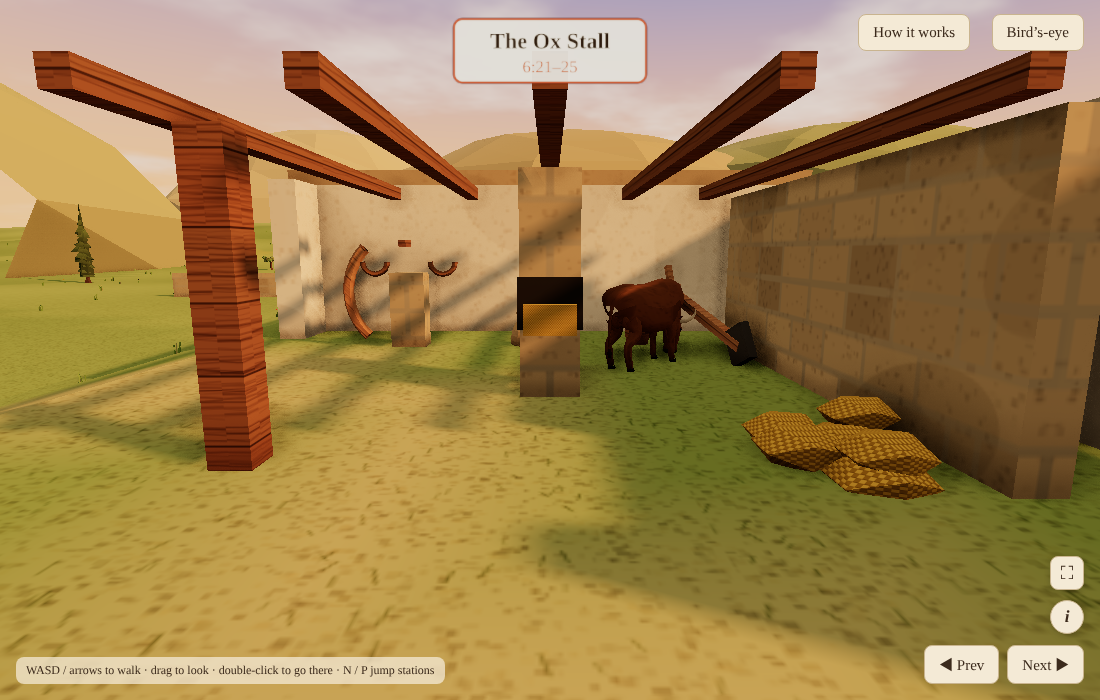
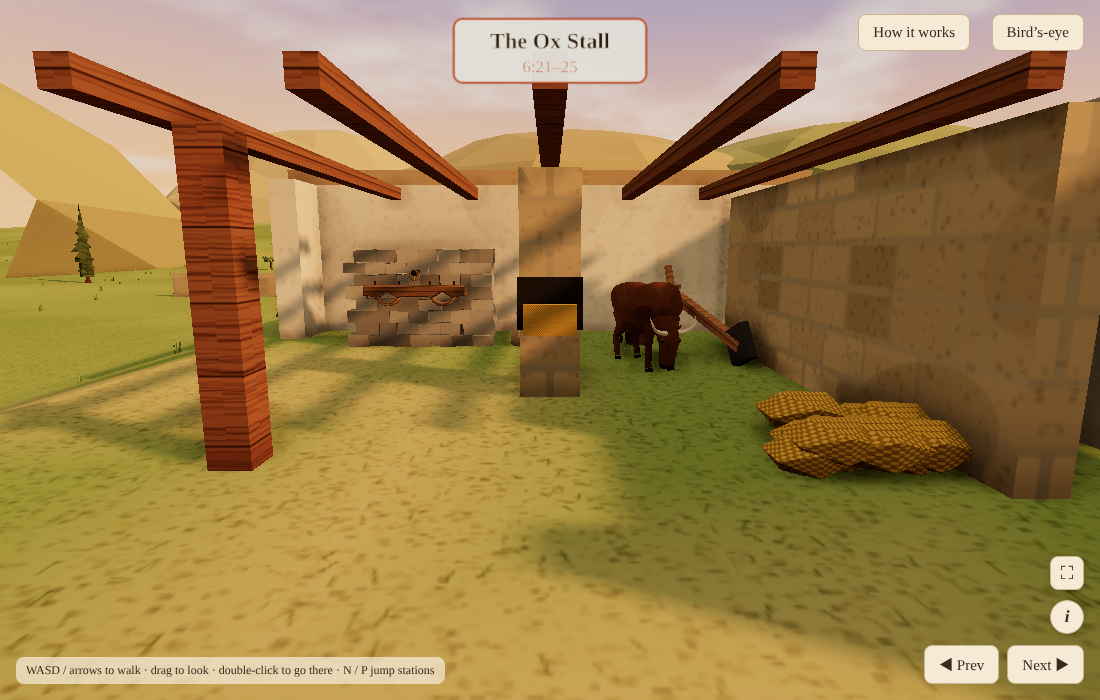
som-ltm: new library models for the charcoal clearing and bee wall; yoke rebuilt; storeroom made one room; ox faces viewer; granary steps replaced by boundary stone; The Cistern. Library: tipped cylinders centred
Claude-Session: https://claude.ai/code/session_011GTaBjBmrRYMxR8CbFEKPF

diff --git a/ltm-engine/objects/som.js b/ltm-engine/objects/som.js
@@ -16,7 +16,8 @@ const mLeather = MM('somLeather', '#7a5232', TEX.cloth), mLeatherDk = MM('somLea
   mRope = MM('somRopeM', '#c8ae7c', TEX.wicker), mSmoke = MM('somSmokeM', '#ece8e0', null, { transparent: true, opacity: .45, depthWrite: false }), mDark = MM('somDarkM', '#241c16'), mGrass = MM('somGrassM', '#7a8a3e');
 const G = () => new THREE.Group();
 const bx = (g, w, h, d, m, x, y, z, ry = 0, rx = 0, rz = 0) => { const o = box(w, h, d, m, x, y, z, g); o.rotation.set(rx, ry, rz); return o; };
-const cy = (g, rt, rb, h, s, m, x, y, z, rx = 0, ry = 0, rz = 0) => { const o = cyl(rt, rb, h, s, m, x, y, z, g); o.rotation.set(rx, ry, rz); return o; };
+// an upright cylinder stands on y; a tipped one (rx or rz set) is centred on y, so lying logs, pipes and hafts sit where they are put
+const cy = (g, rt, rb, h, s, m, x, y, z, rx = 0, ry = 0, rz = 0) => { const o = cyl(rt, rb, h, s, m, x, y, z, g); o.rotation.set(rx, ry, rz); if (rx || rz) o.position.y = y; return o; };
 const lathe = (g, pts, m, x, y, z, seg = 14) => add(new THREE.LatheGeometry(pts.map(([a, b]) => new THREE.Vector2(a, b)), seg), m, x, y, z, g);
 // an irregular flat stone: a low polygon prism with jittered corners
 function slab(g, r, h, m, x, y, z, sides = 6, ry = 0) { const sh = new THREE.Shape(); for (let i = 0; i < sides; i++) { const a = i / sides * 6.283, rr = r * R(.75, 1.15); i ? sh.lineTo(Math.cos(a) * rr, Math.sin(a) * rr) : sh.moveTo(Math.cos(a) * rr, Math.sin(a) * rr); }
@@ -90,13 +91,14 @@ def('som-mudbrick-wall', 'Low mud-brick wall of the yard', g => {
 
 // ---- the Ox Stall (6:21–25) ----
 def('som-yoke-on-peg', 'Yoke for two oxen, hung on its peg', g => {
-  dryWall(g, -1.2, -.3, 1.2, -.3, 1.3, .5);   // a low field-stone wall behind
-  cy(g, .05, .05, .45, 8, mWoodDk, 0, 1.15, -.1, Math.PI / 2);   // one stout peg driven into the wall
-  const beam = new THREE.Group(); beam.position.set(0, 1.18, .12); g.add(beam);
-  bx(beam, 1.9, .13, .13, mWood, 0, 0, 0); for (const s of [-1, 1]) bx(beam, .2, .17, .15, mWood, s * .95, -.02, 0);   // a thick beam with flared ends
-  for (const s of [-.55, .55]) { const bow = add(new THREE.TorusGeometry(.2, .03, 6, 16, Math.PI), mWoodLt, s, -.02, 0, beam); bow.rotation.z = Math.PI;   // the U-shaped bow under each neck
-    for (const t of [-1, 1]) cy(beam, .022, .022, .2, 5, mWoodDk, s + t * .2, .05, 0); }   // bow ends pinned through the beam
-  return 1.45; });
+  dryWall(g, -1.3, -.4, 1.3, -.4, 2.0, .45);   // the stall's coursed stone wall behind
+  cy(g, .06, .06, .55, 8, mWoodDk, 0, 1.55, -.1, Math.PI / 2);   // one stout peg sticking out of the wall face
+  add(new THREE.TorusGeometry(.09, .022, 5, 10), mRope, 0, 1.5, .12, g);   // the cord loop over the peg
+  cy(g, .015, .015, .22, 4, mRope, 0, 1.38, .14);
+  const sh = new THREE.Shape(); sh.moveTo(-1, -.06); [[-.85, -.08], [-.75, -.1], [-.55, .02], [-.35, -.1], [-.2, -.08], [.2, -.08], [.35, -.1], [.55, .02], [.75, -.1], [.85, -.08], [1, -.06], [1, .1], [-1, .1]].forEach(([a, b]) => sh.lineTo(a, b));
+  add(new THREE.ExtrudeGeometry(sh, { depth: .16, bevelEnabled: true, bevelThickness: .02, bevelSize: .02, bevelSegments: 1 }), MM('somYokeWood', '#8e6a42', TEX.wood), 0, 1.18, .02, g);   // the carved beam hanging against the wall face, two neck hollows
+  for (const s of [-.55, .55]) { const bow = add(new THREE.TorusGeometry(.24, .04, 6, 16, Math.PI), mWoodLt, s, 1.16, .1, g); bow.rotation.z = Math.PI; for (const t of [-1, 1]) cy(g, .022, .022, .26, 5, mWoodDk, s + t * .24, 1.12, .1); }   // a U-bow hanging under each hollow
+  return 2.0; });
 def('som-plough', 'Wooden plough (ard) with an iron share', g => {
   const sole = bx(g, .14, .12, 1.0, mWood, 0, .05, 0, 0, .15);   // the sole dragging along the ground
   const sh = new THREE.ConeGeometry(.09, .4, 4); sh.rotateX(Math.PI / 2); add(sh, mIron, 0, .02, .66, g).scale.x = 1.4;   // a big iron share on its point
@@ -189,5 +191,55 @@ def('som-resting-stone', 'Resting stone at the fork of the road', g => {
   const worn = add(new THREE.CircleGeometry(1.7, 10), MM('somTrack', '#b8a07a'), 0, .01, 0, g); worn.rotation.x = -Math.PI / 2;   // the worn ground where travellers stop
   for (let i = 0; i < 4; i++) boulder(g, R(.1, .18), mRockDk, R(-1.3, 1.3), 0, R(-1.2, 1.2), .6);
   return .65; });
+
+
+// ---- the Charcoal Burners' Clearing (5:26–30), rebuilt 2026-11-18 ----
+def('som-charcoal-mound', 'Charcoal burner\'s mound, smoking', g => {
+  const earthD = MM('somEarthDk', '#6a5640', TEX.plaster), turfG = MM('somTurfG', '#5d6a34'), soil = MM('somSoilClod', '#7a6244'), soot = MM('somSoot', '#1e1a16');
+  const geo = new THREE.SphereGeometry(1.55, 22, 12, 0, 6.3, 0, 1.57); const p = geo.attributes.position; for (let i = 0; i < p.count; i++) { const x = p.getX(i), y = p.getY(i), z = p.getZ(i), n = 1 + .07 * Math.sin(x * 5.1 + z * 3.3) + .05 * Math.sin(z * 6.7 - y * 4); p.setXYZ(i, x * n, y * .78 * n, z * n); } geo.computeVertexNormals();
+  add(geo, earthD, 0, 0, 0, g);   // a lumpy dome of earth over the stacked wood
+  for (let i = 0; i < 40; i++) { const a = R(0, 6.3), t = R(.1, 1.25), r = 1.55 * Math.cos(t), y = 1.2 * Math.sin(t); const c = add(new THREE.DodecahedronGeometry(R(.1, .2), 0), i % 3 ? soil : turfG, Math.cos(a) * r, y * .98, Math.sin(a) * r, g); c.scale.y = .5; c.lookAt(0, -3, 0); }   // clods and turves pressed over it
+  for (let k = 0; k < 8; k++) { const a = k / 8 * 6.28 + .2; add(new THREE.CircleGeometry(.08, 6), soot, Math.cos(a) * 1.56, .25, Math.sin(a) * 1.56, g).lookAt(Math.cos(a) * 9, .25, Math.sin(a) * 9); }   // vent holes round the foot
+  cy(g, .18, .22, .08, 10, soot, 0, 1.18, 0);
+  const smoke = new THREE.Group(); g.add(smoke); for (let k = 0; k < 6; k++) { const s = add(new THREE.SphereGeometry(.25 + k * .1, 8, 6), MM('somSmokeThin', '#e2ded6', null, { transparent: true, opacity: .2 - k * .02, depthWrite: false }), k * .32, 1.4 + k * .38, k * .08, smoke); s.scale.set(1.5, .7, 1.2); }   // a thin plume drifting off with the wind   // a soft drifting plume
+  const rk = new THREE.Group(); rk.position.set(1.75, 0, .5); rk.rotation.set(0, -.3, .5); g.add(rk); cy(rk, .03, .03, 2.0, 5, mWoodLt, 0, 0, 0); bx(rk, .5, .06, .08, mWoodDk, 0, 2.0, 0); for (let k = 0; k < 5; k++) cy(rk, .015, .015, .16, 4, mWoodDk, -.2 + k * .1, 2.0, 0);   // the rake leaning, its foot on the ground
+  return 1.35; });
+def('som-cut-stumps', 'Row of freshly cut stumps', g => {
+  const cut = MM('somCutFace2', '#ecd29c'), bark = MM('somBark2', '#7a6046', TEX.wood);
+  for (const [x, z, r, h, tilt] of [[-1.4, .2, .3, .45, .2], [0, -.25, .38, .35, -.18], [1.45, .25, .28, .55, .25]]) { lathe(g, [[0, 0], [r * 1.7, 0], [r * 1.3, .07], [r * 1.05, .18], [r, h], [0, h]], bark, x, -.02, z, 12);   // stumps flaring into the ground
+    cy(g, r * .97, r * .97, .03, 12, cut, x, h - .01, z, tilt); for (let k = 0; k < 3; k++) add(new THREE.TorusGeometry(r * (.25 + k * .24), .006, 3, 14), MM('somRing', '#c09a62'), x, h + .02, z, g).rotation.x = Math.PI / 2 + tilt; }
+  for (let i = 0; i < 60; i++) bx(g, R(.05, .14), .015, R(.03, .08), cut, R(-2, 2), .01, R(-.9, .9), R(0, 3));   // fresh pale chips all round
+  return .6; });
+def('som-axe-stump', 'Chopping stump with an axe in it', g => {
+  const cut = MM('somCutFace2', '#ecd29c'), bark = MM('somBark2', '#7a6046', TEX.wood);
+  lathe(g, [[0, 0], [.75, 0], [.6, .1], [.5, .25], [.48, .62], [0, .62]], bark, 0, -.02, 0, 14); cy(g, .47, .47, .02, 14, cut, 0, .6, 0); for (let k = 0; k < 3; k++) add(new THREE.TorusGeometry(.12 + k * .11, .006, 3, 16), MM('somRing', '#c09a62'), 0, .625, 0, g).rotation.x = Math.PI / 2;
+  bx(g, .32, .16, .05, mIron, -.02, .56, 0, 0, 0, -.25);   // the iron axe head sunk in the top
+  cy(g, .032, .038, .8, 7, MM('somHaft', '#c8a46a', TEX.wood), .3, .88, 0, 0, 0, -.85);   // its pale wooden haft slanting up and out
+  for (let i = 0; i < 7; i++) { const bil = new THREE.Group(); bil.position.set(1.0 + (i % 4) * .2 - .3, .09 + (i > 3 ? .16 : 0), -.1 + (i % 2) * .05); bil.rotation.set(0, .1, Math.PI / 2); g.add(bil); add(new THREE.CylinderGeometry(.1, .1, .65, 8, 1, false, 0, Math.PI), bark, 0, 0, 0, bil); const f = bx(bil, .2, .65, .006, cut, 0, -.325, 0); }   // split billets in a neat pile, pale split faces up
+  for (let i = 0; i < 25; i++) bx(g, R(.05, .12), .015, R(.03, .07), cut, R(-.9, .9), .01, R(-.8, .8), R(0, 3));
+  return 1.0; });
+def('som-charcoal-baskets', 'Rush baskets heaped with charcoal', g => {
+  const rush = MM('somRushW', '#c2ad72', TEX.wicker), coal = MM('somCoalG2', '#45413c', null, { roughness: .55 });
+  for (const [x, z, s] of [[-.45, 0, 1], [.45, .1, .85]]) { const bk = lathe(g, [[0, 0], [.3 * s, 0], [.4 * s, .14 * s], [.44 * s, .34 * s], [.46 * s, .4 * s], [.42 * s, .4 * s], [.39 * s, .2 * s], [0, .18 * s]], rush, x, 0, z, 18); bk.material.side = THREE.DoubleSide;
+    add(new THREE.TorusGeometry(.44 * s, .035, 5, 22), MM('somRushRim', '#a8925a', TEX.wicker), x, .4 * s, z, g).rotation.x = Math.PI / 2;   // a thick rolled rim
+    for (let i = 0; i < 34; i++) { const a = R(0, 6.3), d = Math.sqrt(R(0, 1)) * .36 * s; add(new THREE.DodecahedronGeometry(R(.05, .085), 0), coal, x + Math.cos(a) * d, .38 * s + (1 - d / (.36 * s)) * .2, z + Math.sin(a) * d, g).rotation.set(R(0, 3), R(0, 3), 0); } }   // a mounded heap of dark grey chunks
+  return .7; });
+def('som-ash-ring', 'Old burn floor of an earlier mound', g => {
+  const floor = MM('somBurnFloor', '#4a4540'), coal = MM('somCoalG2', '#2e2b28'), ash = MM('somAshL', '#9c9890');
+  const rg = add(new THREE.CircleGeometry(1.7, 26), floor, 0, .05, 0, g); rg.rotation.x = -Math.PI / 2;   // a grey-black burn floor
+  for (let i = 0; i < 12; i++) { const p = add(new THREE.CircleGeometry(R(.12, .3), 7), ash, R(-1.1, 1.1), .055, R(-1.1, 1.1), g); p.rotation.x = -Math.PI / 2; }   // flecks of ash
+  for (let i = 0; i < 40; i++) { const a = R(0, 6.3), d = Math.sqrt(R(0, 1)) * 1.6; const c = add(new THREE.DodecahedronGeometry(R(.03, .07), 0), coal, Math.cos(a) * d, .06, Math.sin(a) * d, g); c.scale.y = .5; }   // charcoal flecks all over it
+  return .1; });
+
+// ---- the Bee Bank (5:31–35), rebuilt 2026-11-18: one walled bank, the hive pipes set into its far end ----
+def('som-bee-wall', 'Bee wall: a mud-plastered stone bank with hive pipes set in it', g => {
+  const mud = MM('somBeeMud2', '#a99472', TEX.plaster), plug = MM('somPipePlug2', '#d9c7a2', TEX.plaster), rim = MM('somPipeRim', '#c9a27a', TEX.pot);
+  const L = 5.2;
+  bx(g, L - .4, .95, .9, mud, .2, 0, -.05); dryWall(g, -2.3, .42, 2.4, .42, .35, .12);   // the bank, plastered, its stone footing showing
+  for (let i = 0; i < 10; i++) { const p = add(new THREE.CircleGeometry(R(.08, .14), 6), mRock, R(-2.2, 2.3), R(.4, .85), .405, g); }   // stones showing through the plaster
+  lathe(g, [[0, 0], [.55, 0], [.52, .5], [.46, .85], [.3, 1.0], [0, 1.03]], mud, -L / 2 + .25, 0, -.05, 14);   // its near end rounded off in the same mud
+  for (let row = 0; row < 3; row++) for (let k = 0; k < 4 - row; k++) { const x = .55 + k * .44 + row * .22, y = .24 + row * .32; cy(g, .19, .19, .08, 14, rim, x, y, .42, Math.PI / 2); cy(g, .16, .16, .02, 12, plug, x, y, .465, Math.PI / 2); add(new THREE.CircleGeometry(.04, 8), mDark, x, y - .06, .478, g); }   // only the ends of the clay pipes show, set deep in the bank, each sealed with mud and a small entrance
+  for (let i = 0; i < 22; i++) { const b = add(new THREE.SphereGeometry(.022, 5, 4), MM('somBee', '#3a2a10'), R(.4, 2.2), R(.15, 1.0), R(.55, .9), g); b.scale.x = 1.7; }
+  return 1.05; });
 
 }

diff --git a/som-ltm/world/farm.js b/som-ltm/world/farm.js
@@ -53,12 +53,11 @@ defBuilder('som.court', (r, { ch }) => { const F = roomFrame(r), h = 2.6, sp = S
 // threshold · storage jars · dried herbs from a beam · plastered wall shelf · wooden chest
 defBuilder('som.store', (r, { ch }) => { const F = roomFrame(r), h = 2.3, sp = SQ(h).map(([f, s]) => F.at(f, s)), out = [];
   const g = atR(F, .4, 0, Math.PI);   // local +z = forward, +x = right
-  box(.4, 3, 2 * h + 2.2, plasterM, -h - 1, 0, 0, g); box(.4, 3, 2 * h + 2.2, plasterM, h + 1, 0, 0, g); box(2 * h + 2.4, 3, .4, plasterM, 0, 0, h + 1.2, g);   // walls
-  box(2 * h + 2.4, .3, 2 * h + 2.6, 'wood', 0, 3, .1, g);                                                                 // the roof
-  box(.12, 2.3, 1.2, 'wood', -h - .7, 0, -h + .1, g).rotation.y = .15;                                                    // the door, swung back against the left wall
-  out.push(ground(F.at(.4 - h + .7, -h - .7), 1.3));   // 1: the door, swung back against the wall left of the doorway
-  { const fl = atR(F, .4, 0); box(2 * h + 2, .05, 2 * h + 2.2, plasterM, 0, 0, 0, fl); }   // the plastered floor                        // the threshold
-  { const pts = [[0, 0], [.18, .05], [.3, .4], [.32, .8], [.24, 1.15], [.12, 1.25], [.14, 1.35]].map(([a, b]) => new THREE.Vector2(a, b)); for (let k = 0; k < 4; k++) { const [jx, jz] = F.at(h + .2, -h - .9 + k * .6); add(new THREE.LatheGeometry(pts, 12), clayM, jx, heightAt(jx, jz), jz); } out.push(ground(sp[1], 1.55)); }   // a row of four tall clay storage jars   // the row of tall storage jars
+  // the storeroom is the whole north-east room of the house (owner, 2026-11-18): no walls of its own, the house walls are its walls
+  box(.12, 2.3, 1.2, 'wood', 127.55, heightAt(127.55, -20.35), -20.35);   // the door, swung back against the wall left of the doorway
+  out.push(ground([127.3, -20.35], 1.3));   // 1: the door
+  { box(10, .06, 15.5, plasterM, 123, heightAt(123, -21.75) - .02, -21.75); }   // the plastered floor                        // the threshold
+  { const pts = [[0, 0], [.18, .05], [.3, .4], [.32, .8], [.24, 1.15], [.12, 1.25], [.14, 1.35]].map(([a, b]) => new THREE.Vector2(a, b)); for (let k = 0; k < 4; k++) { const [jx, jz] = F.at(h + .9, -h - .4 + k * .62); add(new THREE.LatheGeometry(pts, 12), clayM, jx, heightAt(jx, jz), jz); } out.push(ground(sp[1], 1.55)); }   // a row of four tall clay storage jars   // the row of tall storage jars
   { const [x, z] = sp[2]; out.push({ x, z, y: libAt('herb-rack', x, z, F.yaw, 1) }); }   // the rack of dried herbs
   { const s2 = atR(F, -h, h + .8); box(1.8, .12, .55, plasterM, 0, 1.1, 0, s2); for (const [a, b] of [[-.55, 0], [-.15, .05], [.35, 0]]) cyl(.1, .13, .26, 10, clayM, a, 1.22, b, s2); out.push(ground(F.at(-h, h + .6), 1.4)); }   // the plastered shelf on the wall, small pots on it                    // the plastered wall shelf
   { out.push({ x: F.x, z: F.z, y: libAt('big-chest', F.x, F.z, F.yaw + .1, 1) }); }   // the wooden chest
@@ -93,16 +92,16 @@ defBuilder('som.stall', (r, { ch }) => { const F = roomFrame(r), h = 2.5, sp = S
   box(.4, 2.6, 2 * h + 1.8, dryStone, -h - .9, 0, .2, g);   // the west (outside) wall left open box(2 * h + 2.2, 2.6, .4, dryStone, 0, 0, h + 1, g);   // three walls, open front
   for (let k = -2; k <= 2; k++) box(.2, .2, 2 * h + 2.4, 'wood', k * 1.4, 2.6, .2, g);   // open roof beams, so the stall is lit
   { const s2 = atR(F, -h, -h); box(.35, 2.6, .35, 'wood', 0, 0, 0, s2); out.push(ground(sp[0], 1.4)); }                     // the left stall post
-  { const s2 = atR(F, h + .7, -h); box(.12, .12, .4, 'wood', 0, 1.75, 0, s2); const ybm = add(new THREE.TorusGeometry(1.1, .1, 6, 16, Math.PI * .5), 'woodLt', 0, .95, -.25, s2); ybm.rotation.z = Math.PI * .75; for (const s3 of [-.6, .6]) { const u = add(new THREE.TorusGeometry(.22, .05, 5, 10, Math.PI), 'wood', s3, 1.5, -.22, s2); u.rotation.z = Math.PI; } box(.6, 1.3, .45, dryStone, 0, 0, -.2, s2); out.push(ground(F.at(h + .7, -h), 1.4)); }   // the yoke, made for two, on its peg
+  out.push(somAt(F, F.at(h + .55, -h + .2), 'som-yoke-on-peg', 0, .85)); out[out.length - 1].y -= .3;   // 2: the yoke on its peg (workshop model)
   { const s2 = atR(F, h, h, .3); const b = box(.16, .16, 2.3, 'woodLt', 0, .55, 0, s2); b.rotation.x = .3; const sh = box(.14, .55, .45, ironM, 0, .05, 1.05, s2); sh.rotation.x = -.5; const hn = box(.1, .9, .1, 'woodLt', 0, .55, -1.05, s2); hn.rotation.x = -.4; box(.5, .08, .08, 'woodLt', 0, 1.0, -1.2, s2); out.push(ground(sp[2], .85)); }   // the plough
   { const [x, z] = sp[3]; for (let k = 0; k < 10; k++) add(new THREE.IcosahedronGeometry(R(.3, .45), 0), strawM, x + R(-.5, .5), heightAt(x, z) + R(0, .3), z + R(-.5, .5)).scale.y = .5; out.push(ground(sp[3], .55)); }   // straw bedding
   { box(.7, 2.6, .7, dryStone, F.x, F.y, F.z); const [nx, nz] = F.at(-.36, 0); const nb = box(.75, .6, .12, darkM, nx - F.fx * .01, F.y + .8, nz - F.fz * .01); nb.rotation.y = F.yaw; const n = box(.6, .35, .16, strawM, nx - F.fx * .06, F.y + .75, nz - F.fz * .06); n.rotation.y = F.yaw; out.push({ x: F.x, z: F.z, y: F.y + 2.85 }); }   // the roof pillar, its feeding niche filled with fodder
-  { const [x, z] = F.at(1.6, 1.4); libAt('ox-grazing', x, z, F.yaw + .5, .85); }   // the ox
+  { const [x, z] = F.at(1.6, 1.4); libAt('ox-grazing', x, z, F.yaw - Math.PI / 2, .85); }   // the ox
   finishRoom(ch, r, F, out); });
 
 // ---- 6.6 THE GRANARY FIELD (6:26–30): terrace steps · lentils · scarecrow · granary door · hoe in the furrow ----
 defBuilder('som.granary', (r, { ch }) => { const F = roomFrame(r), h = 2.5, sp = SQ(h).map(([f, s]) => F.at(f, s)), out = [];
-  { const g = atR(F, -h, -h); for (let k = 0; k < 3; k++) box(1.2, .2 * (k + 1), .5, dryStone, 0, 0, -k * .5, g); out.push(ground(sp[0], .7)); }   // the terrace steps
+  { const g = atR(F, -h, -h, .3); const st = box(.45, 1.0, .3, rockM, 0, -.1, 0, g); st.rotation.z = .06; box(.47, .12, .32, paleM, 0, .86, 0, g); out.push(ground(sp[0], 1.0)); }   // 1: the boundary stone at the field's corner, its top whitened (the steps are gone, owner 2026-11-18)
   { const [x, z] = sp[1]; libAt('garden-plot', x, z, F.yaw, .8); out.push(ground(sp[1], .35)); }   // the patch of lentils
   { const g = atR(F, h, h); cyl(.05, .05, 2.2, 5, 'wood', 0, 0, 0, g); box(1.3, .06, .06, 'wood', 0, 1.6, 0, g); const rag = mat('somRag', '#9a6a4a'); rag.map = TEX.cloth; box(.7, .9, .22, rag, 0, 1.0, 0, g); for (const sd of [-1, 1]) box(.35, .5, .05, rag, sd * .55, 1.2, .1, g); add(new THREE.SphereGeometry(.2, 8, 6), strawM, 0, 2.05, 0, g); add(new THREE.ConeGeometry(.3, .25, 8), strawM, 0, 2.3, 0, g); out.push(ground(sp[2], .5)); }   // the scarecrow
   { const g = atR(F, -h + .9, h + 1.5, -Math.PI / 2); g.scale.setScalar(.8); box(2.6, 2.6, 2.6, dryStone, 0, 0, 0, g); add(new THREE.SphereGeometry(1.35, 10, 6, 0, 6.3, 0, 1.57), mudM, 0, 2.6, 0, g).scale.y = .7; box(.9, 1.6, .1, 'wood', 0, 0, 1.33, g); box(1.1, .12, .2, 'woodLt', 0, 1.6, 1.36, g); out.push(ground(F.at(-h + .9, h + .6), .15)); }   // the stone granary, its door facing the field

diff --git a/som-ltm/world/mount.js b/som-ltm/world/mount.js
@@ -117,19 +117,19 @@ defBuilder('som.quarry', (r, { ch }) => { const F = roomFrame(r), h = 2.5, sp = 
 
 // ---- 5.6 THE CHARCOAL BURNERS' CLEARING (5:26–30): smoking mound · row of stumps · axe in a block · rush baskets of charcoal · ash ring ----
 defBuilder('som.charcoal', (r, { ch }) => { const F = roomFrame(r), h = 2.6, sp = SQ(h).map(([f, s]) => F.at(f, s)), out = [];
-  { const [x, z] = sp[0]; const m = add(new THREE.SphereGeometry(1.3, 10, 6, 0, 6.3, 0, 1.57), mat('somTurf', '#3e342a'), x, heightAt(x, z) - .05, z); m.scale.y = .75; m.material.map = TEX.stone; for (let k = 0; k < 5; k++) add(new THREE.SphereGeometry(.18 + k * .1, 8, 6), mat('somSmoke', '#e6e1da', { transparent: true, opacity: .5 }), x + k * .12, heightAt(x, z) + 1.1 + k * .45, z); out.push(ground(sp[0], 1.05)); }
-  { for (let k = 0; k < 3; k++) { const [x, z] = F.at(h + R(-.3, .3), -h - .8 + k * .8); { const ht = R(.4, .55); cyl(.32, .36, ht, 9, 'wood', x, heightAt(x, z), z); cyl(.31, .31, .02, 9, mat('somCut', '#e0c08a'), x, heightAt(x, z) + ht, z); } } out.push(ground(F.at(h, -h), .5)); }
-  { const g = atR(F, h, h); cyl(.42, .46, .55, 9, 'wood', 0, 0, 0, g); cyl(.41, .41, .02, 9, mat('somCut', '#e0c08a'), 0, .55, 0, g); const hd = cyl(.04, .04, 1.1, 6, 'woodLt', .15, .55, 0, g); hd.rotation.z = .5; box(.07, .26, .34, ironM, -.12, .55, 0, g); out.push(ground(sp[2], .55)); }
-  { const g = atR(F, -h, h); for (const s of [-.4, .4]) { const rb = mat('somRush', '#b09a62'); rb.map = TEX.wicker; cyl(.32, .26, .6, 10, rb, s, 0, 0, g); for (let k = 0; k < 6; k++) add(new THREE.DodecahedronGeometry(.07, 0), darkM, s + R(-.15, .15), .6, R(-.15, .15), g); } out.push(ground(sp[3], .6)); }
-  { const m = add(new THREE.RingGeometry(.8, 1.5, 18), mat('somAsh2', '#9a9690'), F.x, F.y + .04, F.z); m.rotation.x = -Math.PI / 2; out.push({ x: F.x, z: F.z, y: F.y + .1 }); }
+  // models from the shared library (ltm-engine/objects/som.js), rebuilt 2026-11-18
+  out.push(somAt(F, F.at(-h + .9, -h - 1.4), 'som-charcoal-mound', .6, .8));                 // 1: the smoking charcoal mound
+  out.push(somAt(F, F.at(h, -h), 'som-cut-stumps', .3));                                   // 2: the row of cut stumps
+  out.push(somAt(F, sp[2], 'som-axe-stump', -.4));                                         // 3: the chopping stump, the axe in it
+  out.push(somAt(F, sp[3], 'som-charcoal-baskets', .2));                                   // 4: rush baskets of charcoal
+  out.push(somAt(F, [F.x, F.z], 'som-ash-ring', 0, .8));                                   // 5: the old burn floor
   for (let i = 0; i < 12; i++) { const a = R(0, 6.3), d = R(7, 11), x = F.x + Math.cos(a) * d, z = F.z + Math.sin(a) * d; if (TRAIL_D(x, z) > 4) shrub(x, z, R(1, 1.4)); }   // the scrub round the clearing, off the trail
   finishRoom(ch, r, F, out); });
 
 // ---- 5.7 THE BEE BANK (5:31–35): capped bank end · stacked hive pipes · smoker pot · bees' water dish · tray of comb ----
 defBuilder('som.bees', (r, { ch }) => { const F = roomFrame(r), h = 2.5, sp = SQ(h).map(([f, s]) => F.at(f, s)), out = [];
-  { const g = atR(F, .2, -h - .9); const bk = box(1.3, .9, 2 * h + .9, mat('somEarth', '#a88a5e'), 0, 0, 0, g); bk.material.map = TEX.plaster; for (let k = 0; k < 6; k++) add(new THREE.CircleGeometry(.11, 8), darkM, -.66, .5, -h + .2 + k * .8, g).rotation.y = -Math.PI / 2; }   // the earth bank, hive mouths in its face                         // the bank along the left side, from near to far
-  { const [x, z] = sp[0]; box(1.2, .9, 1.2, dryStone, x, heightAt(x, z) - .05, z); add(new THREE.SphereGeometry(.62, 8, 5, 0, 6.3, 0, 1.57), rockM, x, heightAt(x, z) + .85, z); out.push(ground(sp[0], 1.5)); }   // the bank's rounded end, with its capstone   // the capstone on its near end
-  { const g = atR(F, h, -h); for (let row = 0; row < 3; row++) for (let k = 0; k < 3 - row; k++) { const p = cyl(.2, .2, 1.1, 10, clayM, (k - (2 - row) / 2) * .44, 0, 0, g); p.rotation.x = Math.PI / 2; p.position.y = .2 + row * .38; add(new THREE.CircleGeometry(.12, 10), darkM, (k - (2 - row) / 2) * .44, .2 + row * .38, .56, g); } out.push(ground(sp[1], 1.25)); }   // the stacked clay hive pipes, mouths towards you
+  { const g = atR(F, 0, -h - .4, Math.PI / 2); const top = OBJECTS.get('som-bee-wall').fn(g, 0, 0, 0);   // the bee wall along the left: near end capped, hive pipes in its far half
+    out.push(ground(F.at(-2.5, -h - .4), top + .25)); out.push(ground(F.at(1.6, -h - .4), .95)); }
   { const g = atR(F, h, h); somRock(...F.at(h, h), .45); cyl(.22, .28, .55, 10, clayM, 0, .5, 0, g); const sp2 = cyl(.04, .06, .3, 6, clayM, .16, .82, 0, g); sp2.rotation.z = -.6; for (let k = 0; k < 4; k++) { const m = add(new THREE.SphereGeometry(.12 + k * .06, 8, 6), mat('somSmoke', '#e6e1da', { transparent: true, opacity: .5 }), .3 + k * .12, 1.0 + k * .3, 0, g); } out.push(ground(sp[2], 1.0)); }   // the smoker pot, smoking
   { const g = atR(F, -h, h); const bw = add(new THREE.SphereGeometry(.45, 14, 6, 0, 6.3, Math.PI / 2, Math.PI / 2), clayM, 0, .3, 0, g); bw.material.side = THREE.DoubleSide; add(new THREE.CircleGeometry(.4, 14), mat('somWater', '#6fb3c8'), 0, .24, 0, g).rotation.x = -Math.PI / 2; for (let k = 0; k < 3; k++) add(new THREE.DodecahedronGeometry(.07, 0), rockM, -.15 + k * .15, .27, R(-.1, .1), g); out.push(ground(sp[3], .45)); }   // a shallow clay bowl of water, stones for the bees to land on
   { const g = atR(F, 0, 0); box(1.1, .6, .8, rockM, 0, 0, 0, g); box(1, .07, .7, 'woodLt', 0, .6, 0, g); for (let a = 0; a < 6; a++) for (let b = 0; b < 4; b++) cyl(.07, .07, .1, 6, combM, -.38 + a * .15 + (b % 2) * .075, .68, -.25 + b * .13, g); for (let k = 0; k < 12; k++) add(new THREE.SphereGeometry(.035, 5, 4), darkM, R(-.8, .8), R(.9, 1.6), R(-.6, .6), g); out.push({ x: F.x, z: F.z, y: F.y + .85 }); }   // the tray of golden comb on a stone
